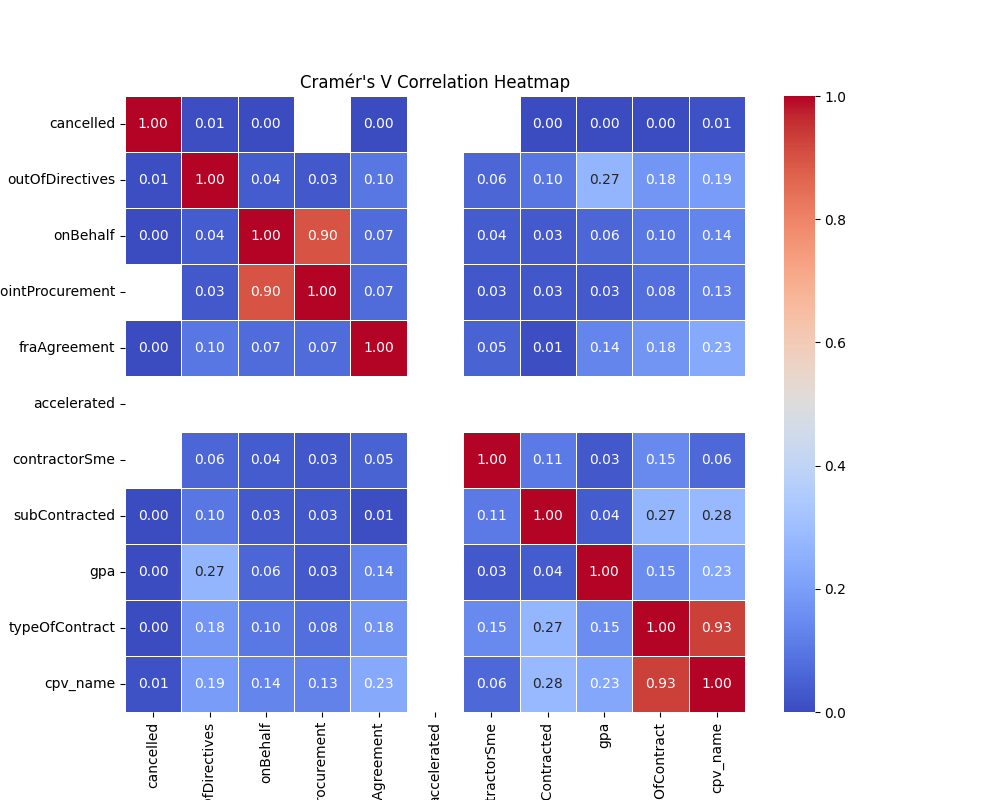
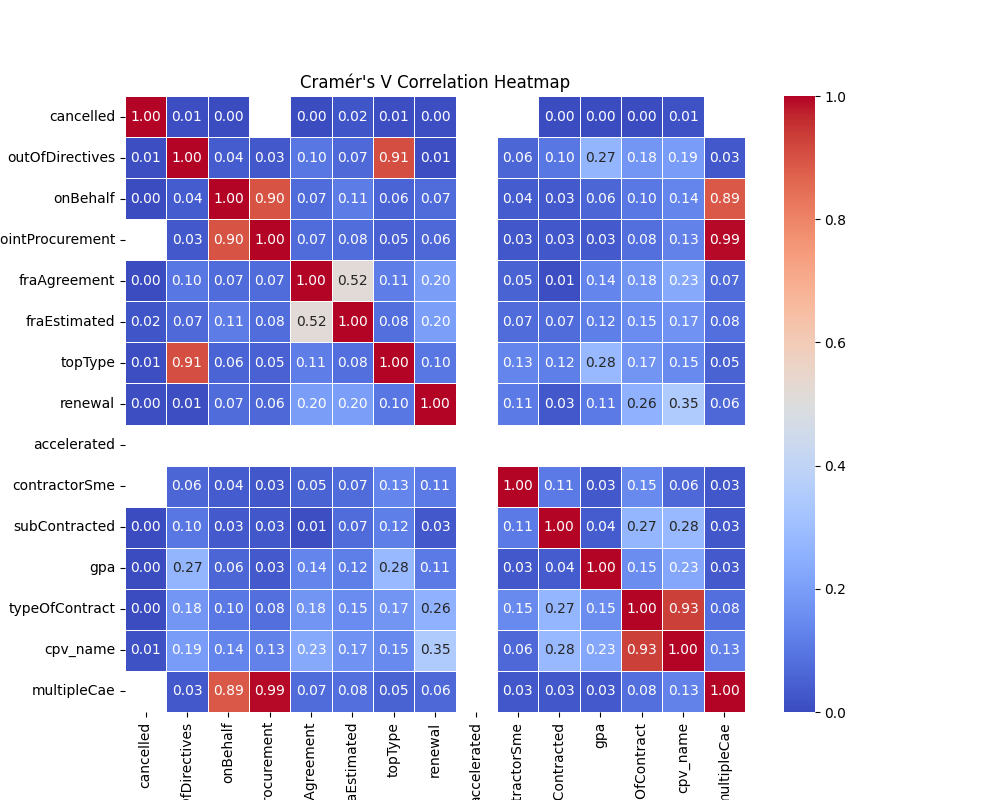
add data cleaning script

diff --git a/data_cleaning.py b/data_cleaning.py
@@ -1,0 +1,243 @@
+import numpy as np
+import pandas as pd
+from matplotlib import pyplot as plt
+from scipy.stats import chi2_contingency
+from sklearn.preprocessing import LabelEncoder
+from sklearn.experimental import enable_iterative_imputer
+from sklearn.impute import IterativeImputer
+
+def clean_data(df_lots):
+    """ Traitement variable 'accelerated' """
+
+    df_lots = df_lots.drop(columns=['accelerated'])
+
+    # loop to take the 2 first digits of the cpv code
+    for i, row in df_lots.iterrows():
+        if not pd.isna(row['cpv']):
+            df_lots.at[i, 'cpv_name'] = str(row['cpv'])[:2]
+
+    columns = df_lots.columns
+
+    """
+       ########################## Traitement des variables catégorielles ######œ##################
+    """
+
+    """ Traitement vairable 'cpv_name' """
+
+    df_lots['cpv_name'] = df_lots['cpv_name'].fillna(np.random.choice(['45', '33'], p=[0.6, 0.4]))
+    " enlever les lignes ou cpv_name est vide "
+
+
+    """ Traitement vairable 'contractorSme' """
+
+    for i, row in df_lots.iterrows():
+        if not pd.isna(row['contractorSme']):
+            df_lots.at[i, 'contractorSme'] = str(row['contractorSme'])[
+                0]  # Remplacer les valeurs fausses par la première lettre de la valeur ( N ou Y) ou compter le nombre de N et Y et remplacer par la valeur la plus fréquente
+
+    print("contractorSme",df_lots['contractorSme'].value_counts())
+
+    """ Traitement vairable 'fraEstimated' """
+
+    df_lots['fraEstimated'] = df_lots['fraEstimated'].fillna(
+        'No')  # considerer les nan comme gagnant ne faisant pas partie des PME
+
+    """ Traitement variable 'jointProcurement', 'onBehalf', 'multipleCae' """
+
+    label_encoder_jointProcurement = LabelEncoder()
+    label_encoder_onBehalf = LabelEncoder()
+    label_encoder_multipleCae = LabelEncoder()
+
+    label_encoder_jointProcurement.fit(df_lots.loc[:, 'jointProcurement'])
+    label_encoder_onBehalf.fit(df_lots.loc[:, 'onBehalf'])
+    label_encoder_multipleCae.fit(df_lots.loc[:, 'multipleCae'])
+
+    df_lots['jointProcurement_encoded'] = label_encoder_jointProcurement.transform(df_lots['jointProcurement'])
+    df_lots['onBehalf_encoded'] = label_encoder_onBehalf.transform(df_lots['onBehalf'])
+    df_lots['multipleCae_encoded'] = label_encoder_multipleCae.transform(df_lots['multipleCae'])
+
+    # replace impute_col_encoded 2 by NaN
+    df_lots['jointProcurement_encoded'] = df_lots['jointProcurement_encoded'].replace(2, np.nan)
+    df_lots['onBehalf_encoded'] = df_lots['onBehalf_encoded'].replace(2, np.nan)
+    df_lots['multipleCae_encoded'] = df_lots['multipleCae_encoded'].replace(2, np.nan)
+
+    # start imputer
+    o_j_imputer = IterativeImputer(max_iter=10, random_state=0)
+
+    o_j_imputer.fit(df_lots.loc[:, ['onBehalf_encoded', 'jointProcurement_encoded', 'multipleCae_encoded']])
+    df_lots_imputed = o_j_imputer.transform(
+        df_lots.loc[:, ['onBehalf_encoded', 'jointProcurement_encoded', 'multipleCae_encoded']])
+    # replace with imputed values
+    df_lots.loc[:, ['jointProcurement_encoded']] = df_lots_imputed[:, 1].round()
+    df_lots.loc[:, ['onBehalf_encoded']] = df_lots_imputed[:, 0].round()
+    df_lots.loc[:, ['multipleCae_encoded']] = df_lots_imputed[:, 2].round()
+    # inverse transform
+    joint_procurement_imputed = list(
+        label_encoder_jointProcurement.inverse_transform(df_lots['jointProcurement_encoded'].round().astype('int')))
+    df_lots['jointProcurement'] = joint_procurement_imputed
+
+    on_behalf_imputed = list(
+        label_encoder_onBehalf.inverse_transform(df_lots['onBehalf_encoded'].round().astype('int')))
+    df_lots['onBehalf'] = on_behalf_imputed
+
+    multiple_cae_imputed = list(
+        label_encoder_multipleCae.inverse_transform(df_lots['multipleCae_encoded'].round().astype('int')))
+    df_lots['multipleCae'] = multiple_cae_imputed
+
+    """ Traitement vairable 'gpa', 'topType' using also column outOfDirectives """
+
+    label_encoder_gpa = LabelEncoder()
+    label_encoder_topType = LabelEncoder()
+    label_encoder_outOfDirectives = LabelEncoder()
+
+    label_encoder_gpa.fit(df_lots.loc[:, 'gpa'])
+    label_encoder_topType.fit(df_lots.loc[:, 'topType'])
+    label_encoder_outOfDirectives.fit(df_lots.loc[:, 'outOfDirectives'])
+
+    df_lots['gpa_encoded'] = label_encoder_gpa.transform(df_lots['gpa'])
+    df_lots['topType_encoded'] = label_encoder_topType.transform(df_lots['topType'])
+    df_lots['outOfDirectives_encoded'] = label_encoder_outOfDirectives.transform(df_lots['outOfDirectives'])
+
+    # replace impute_col_encoded 2 by NaN
+    df_lots['gpa_encoded'] = df_lots['gpa_encoded'].replace(2, np.nan)
+    df_lots['topType_encoded'] = df_lots['topType_encoded'].replace(9, np.nan)
+    # start imputer
+
+    g_t_imputer = IterativeImputer(max_iter=10, random_state=0)
+
+    g_t_imputer.fit(df_lots.loc[:, ['gpa_encoded', 'topType_encoded', 'outOfDirectives_encoded']])
+    df_lots_imputed = g_t_imputer.transform(
+        df_lots.loc[:, ['gpa_encoded', 'topType_encoded', 'outOfDirectives_encoded']])
+    # replace with imputed values
+    df_lots.loc[:, ['gpa_encoded']] = df_lots_imputed[:, 0].round()
+    df_lots.loc[:, ['topType_encoded']] = df_lots_imputed[:, 1].round()
+    df_lots.loc[:, ['outOfDirectives_encoded']] = df_lots_imputed[:, 2].round()
+    # inverse transform
+
+    gpa_imputed = list(label_encoder_gpa.inverse_transform(df_lots['gpa_encoded'].round().astype('int')))
+    df_lots['gpa'] = gpa_imputed
+
+    topType_imputed = list(label_encoder_topType.inverse_transform(df_lots['topType_encoded'].round().astype('int')))
+    df_lots['topType'] = topType_imputed
+
+    """ Traitement variable 'renewal', 'subContracted' à l'aide de 'typeOfContract', 'fraAgreement' """
+
+    label_encoder_renewal = LabelEncoder()
+    label_encoder_subContracted = LabelEncoder()
+    label_encoder_typeOfContract = LabelEncoder()
+    label_encoder_fraAgreement = LabelEncoder()
+
+    label_encoder_renewal.fit(df_lots.loc[:, 'renewal'])
+    label_encoder_subContracted.fit(df_lots.loc[:, 'subContracted'])
+    label_encoder_typeOfContract.fit(df_lots.loc[:, 'typeOfContract'])
+    label_encoder_fraAgreement.fit(df_lots.loc[:, 'fraAgreement'])
+
+    df_lots['renewal_encoded'] = label_encoder_renewal.transform(df_lots['renewal'])
+    df_lots['subContracted_encoded'] = label_encoder_subContracted.transform(df_lots['subContracted'])
+    df_lots['typeOfContract_encoded'] = label_encoder_typeOfContract.transform(df_lots['typeOfContract'])
+    df_lots['fraAgreement_encoded'] = label_encoder_fraAgreement.transform(df_lots['fraAgreement'])
+
+    df_lots['renewal_encoded'] = df_lots['renewal_encoded'].replace(2, np.nan)
+    df_lots['subContracted_encoded'] = df_lots['subContracted_encoded'].replace(2, np.nan)
+    # start imputer
+
+    r_s_imputer = IterativeImputer(max_iter=10, random_state=0)
+
+    r_s_imputer.fit(
+        df_lots.loc[:, ['renewal_encoded', 'subContracted_encoded', 'typeOfContract_encoded', 'fraAgreement_encoded']])
+    df_lots_imputed = r_s_imputer.transform(
+        df_lots.loc[:, ['renewal_encoded', 'subContracted_encoded', 'typeOfContract_encoded', 'fraAgreement_encoded']])
+    # replace with imputed values
+    df_lots.loc[:, ['renewal_encoded']] = df_lots_imputed[:, 0].round()
+    df_lots.loc[:, ['subContracted_encoded']] = df_lots_imputed[:, 1].round()
+    # inverse transform
+
+    renewal_imputed = list(label_encoder_renewal.inverse_transform(df_lots['renewal_encoded'].round().astype('int')))
+    df_lots['renewal'] = renewal_imputed
+
+    subContracted_imputed = list(
+        label_encoder_subContracted.inverse_transform(df_lots['subContracted_encoded'].round().astype('int')))
+    df_lots['subContracted'] = subContracted_imputed
+
+    """ Traitement variable 'contractorSme' à l'aide de 'typeOfContract' et de 'cpv_name """
+
+    label_encoder_contractorSme = LabelEncoder()
+    label_encoder_typeOfContract = LabelEncoder()
+
+
+    label_encoder_contractorSme.fit(df_lots.loc[:, 'contractorSme'])
+    label_encoder_typeOfContract.fit(df_lots.loc[:, 'typeOfContract'])
+    # cast cpv_name to int
+    df_lots['cpv_name'] = df_lots['cpv_name'].astype(int)
+
+    df_lots['contractorSme_encoded'] = label_encoder_contractorSme.transform(df_lots['contractorSme'])
+    df_lots['typeOfContract_encoded'] = label_encoder_typeOfContract.transform(df_lots['typeOfContract'])
+
+    print("contractorSme",df_lots['contractorSme'].value_counts(dropna=False))
+    print("typeOfContract",df_lots['contractorSme_encoded'].value_counts(dropna=False))
+    df_lots['contractorSme_encoded'] = df_lots['contractorSme_encoded'].replace(2, np.nan)
+    # start imputer
+
+    c_t_imputer = IterativeImputer(max_iter=10, random_state=0)
+
+    c_t_imputer.fit(df_lots.loc[:, ['contractorSme_encoded', 'typeOfContract_encoded', 'cpv_name']])
+    df_lots_imputed = c_t_imputer.transform(df_lots.loc[:, ['contractorSme_encoded', 'typeOfContract_encoded', 'cpv_name']])
+    # replace with imputed values
+    df_lots.loc[:, ['contractorSme_encoded']] = df_lots_imputed[:, 0].round()
+    # inverse transform
+
+    contractorSme_imputed = list(label_encoder_contractorSme.inverse_transform(df_lots['contractorSme_encoded'].round().astype('int')))
+    df_lots['contractorSme'] = contractorSme_imputed
+
+
+    """
+        ###################### Traitement des variables Numériques  ##################
+    """
+    # Remplacer les outliers par la médiane
+    columns_to_process = ['correctionsNb', 'numberTenders', 'numberTendersSme', 'awardEstimatedPrice', 'awardPrice',
+                          'contractDuration', 'publicityDuration']
+    for column in columns_to_process:
+        df_lots[column] = pd.to_numeric(df_lots[column], errors='coerce')
+        Q1 = df_lots[column].quantile(0.25)
+        Q3 = df_lots[column].quantile(0.75)
+        IQR = Q3 - Q1
+
+        outliers_mask = (df_lots[column] < (Q1 - 1.5 * IQR)) | (df_lots[column] > (Q3 + 1.5 * IQR))
+        median = df_lots[column].median()
+        df_lots.loc[outliers_mask, column] = median
+    # end
+
+    previous_cpv = None
+    for i, row in df_lots.iterrows():
+        if pd.isna(row['awardEstimatedPrice']):
+            # Pour les valeurs ou awardPrice existe,  remplaçons la valeur manquante de awardEstimatedPrice  par la valeur de 'awardPrice'
+            df_lots.at[i, 'awardEstimatedPrice'] = row['awardPrice']
+        if not pd.isna(row['cpv']):
+            if previous_cpv is not None:
+                df_lots.at[i, 'cpv_name'] = str(previous_cpv)[:2]
+        # Mettre à jour la valeur du code CPV précédent
+        previous_cpv = row['cpv']
+
+    # imputer awardEstimatedPrice and awardPrice by using iterative imputer with estimator = RandomForestRegressor
+
+    print("start imputer")
+    imputer_award = IterativeImputer(max_iter=10, random_state=0)
+    imputer_award.fit(df_lots[['awardEstimatedPrice', 'awardPrice']])
+
+    df_lots_imputed = imputer_award.transform(df_lots[['awardEstimatedPrice', 'awardPrice']])
+
+    for i, column in enumerate(['awardEstimatedPrice', 'awardPrice']):
+        nan_indices = df_lots[column].index[df_lots[column].isna()]
+        df_lots.loc[nan_indices, column] = df_lots_imputed[i][nan_indices]
+
+    df_lots[columns].to_csv('data/Lots_cleaned.csv', index=False)
+
+    return df_lots[columns]
+
+
+if __name__ == '__main__':
+    df_lots = pd.read_csv('data/Lots.csv', dtype=str)
+    df_lots_leaned = clean_data(df_lots)
+    print(df_lots_leaned.isna().sum())
+
+

diff --git a/analyse_bivarie1.py b/analyse_bivarie1.py
@@ -189,9 +189,11 @@ def execute_file(df_lots):
         ('jointProcurement', 'accelerated'),
         ('jointProcurement', 'contractorSme'),
         ('jointProcurement', 'subContracted'),
+        ('jointProcurement', 'subContracted'),
         ('jointProcurement', 'gpa'),
         ('jointProcurement', 'cancelled'),
         ('fraAgreement', 'accelerated'),
+        ('fraAgreement', 'fraEstimated'),
         ('fraAgreement', 'contractorSme'),
         ('fraAgreement', 'subContracted'),
         ('fraAgreement', 'gpa'),
@@ -224,8 +226,15 @@ def execute_file(df_lots):
         ('typeOfContract', 'contractorSme'),
         ('typeOfContract', 'subContracted'),
         ('typeOfContract', 'gpa'),
-        ('typeOfContract', 'cpv_name'),
-        ('cpv_name', 'cancelled')
+        ('cpv_name', 'typeOfContract'),
+        ('cpv_name', 'cancelled'),
+        ('cpv_name', 'subContracted'),
+        ('topType', 'outOfDirectives'),
+        ('topType', 'gpa'),
+        ('cpv_name', 'renewal'),
+        ('renewal', 'typeOfContract'),
+        ('multipleCae', 'jointProcurement'),
+        ('multipleCae', 'onBehalf'),
     ]
 
     numeric_pairs = [
@@ -234,21 +243,22 @@ def execute_file(df_lots):
         ('awardEstimatedPrice', 'publicityDuration'),
         ('awardPrice', 'contractDuration'),
         ('awardPrice', 'publicityDuration'),
-        ('contractDuration', 'publicityDuration')
+        ('contractDuration', 'publicityDuration'),
+        ('numberTendersSme', 'numberTenders')
     ]
 
     for couple in bool_couples:
         bool_categorical_bivariate(df_lots.copy(), couple[0], couple[1])
     for couple in couples:
         categorical_bivariate(df_lots.copy(), couple[0], couple[1])
-    variables = ['cancelled', 'outOfDirectives', 'onBehalf', 'jointProcurement', 'fraAgreement',
-                 'accelerated', 'contractorSme', 'subContracted', 'gpa', 'typeOfContract', 'cpv_name']
+    variables = ['cancelled', 'outOfDirectives', 'onBehalf', 'jointProcurement', 'fraAgreement', 'fraEstimated', 'topType', 'renewal',
+                 'accelerated', 'contractorSme', 'subContracted', 'gpa', 'typeOfContract', 'cpv_name', 'multipleCae']
     create_cramer_v_heatmap(df_lots.copy(), variables)
-    #
+
     # Scatter plots for numeric variable pairs
     for pair in numeric_pairs:
         numeric_bivariate_scatter(df_lots, pair[0], pair[1])
 
     # Correlation heatmap for all numeric variables
-    numeric_vars = ['awardEstimatedPrice', 'awardPrice', 'contractDuration', 'publicityDuration']
+    numeric_vars = ['awardEstimatedPrice', 'awardPrice', 'contractDuration', 'publicityDuration', 'numberTendersSme', 'numberTenders', 'correctionsNb']
     correlation_heatmap(df_lots, numeric_vars)

diff --git a/main.py b/main.py
@@ -1,6 +1,7 @@
 import pandas as pd
 import analyse_bivarie1
 import analyse1
+import data_cleaning
 
 df_lots = pd.read_csv('data/Lots.csv', dtype=str)
 df_lots['cpv_name'] = df_lots['cpv'].astype(str).str[:2]
@@ -9,3 +10,7 @@ df_lots['cpv_name'] = df_lots['cpv'].astype(str).str[:2]
 if __name__ == '__main__':
     analyse_bivarie1.execute_file(df_lots)
     analyse1.execute_file(df_lots)
+
+    # nettoyage des données
+
+    df_lots = data_cleaning.clean_data(df_lots)
